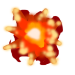
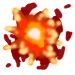
Reanimated player

diff --git a/Main.py b/Main.py
@@ -130,16 +130,7 @@ while True:
             elif "s" in keys:
                 player.goKey("down")
                 
-            if bombIsExploding:
-            if bomb.explode():
-                bombIsExploding = False
-                
-                goodSpawn = False
-                while not goodSpawn:
-                    print("Respawning")
-                    bomb.respawn(size, tileSize)
-                    goodSpawn = not checkSpawn(bomb)
-                player.die(bomb.damage)
+   
             
             if not canShoot and shootTimer != 0:
                 shootTimer -= 1
@@ -191,7 +182,6 @@ while True:
                         alive = True
                         canShoot = True
                         lives -= 1
-                        player.respawn()
                         
             for ball in balls:
                 if not ball.living:

diff --git a/Ball.py b/Ball.py
@@ -36,7 +36,7 @@ class Ball():
         self.kind = "ball"
         self.animationTimer = 0
         self.explosionAnimationTimer = 0
-        self.animationTimerMax = 100/10
+        self.animationTimerMax = 100/8
         
         self.deathSound=pygame.mixer.Sound("Sounds/Other/ball explosion.mp3")
         

diff --git a/Player.py b/Player.py
@@ -31,7 +31,7 @@ class Player(Ball):
 
         self.rect = self.image.get_rect()
         self.animationTimer = 0
-        self.animationTimerMax = 100/10
+        self.animationTimerMax = 100/8
         self.maxSpeed = maxSpeed
         self.angle = 90
         self.speed = 0
